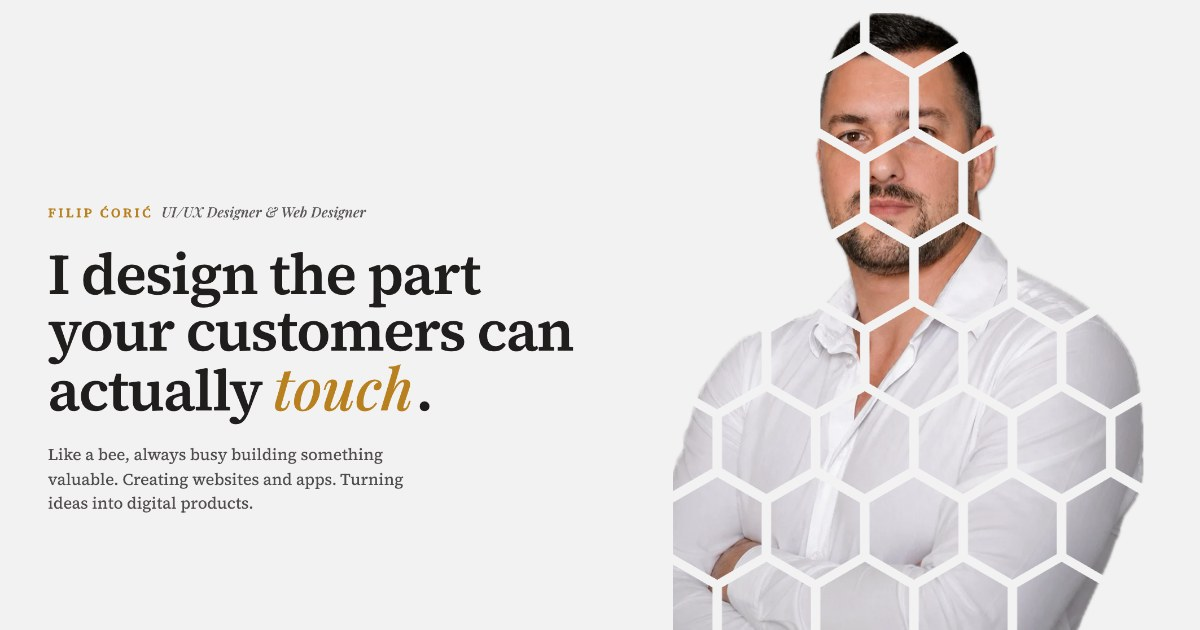
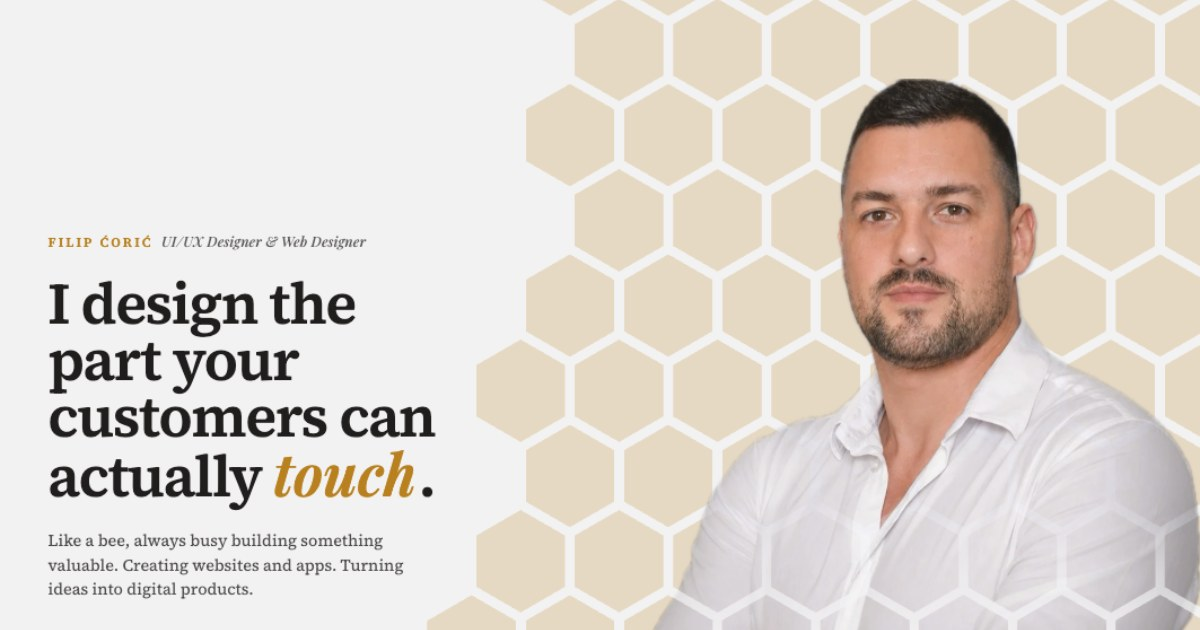
Add files via upload

diff --git a/index.html b/index.html
@@ -836,19 +836,16 @@
         <p style="margin: clamp(14px, 1.6vw, 24px) 0 clamp(22px, 2.6vw, 40px); font-family: var(--font-heading); font-weight: 600; font-size: clamp(1.5rem, 3.4vw, 3.2rem); line-height: 1.02; letter-spacing: -0.028em; color: var(--hero-ink, var(--color-text)); text-shadow: var(--hero-glow, 0 1px 0 rgba(243,242,242,0.85), 0 0 6px rgba(243,242,242,0.7)); text-wrap: pretty;">Your idea, live on the web in <span style="font-family: 'Playfair Display', var(--font-heading); font-style: italic; font-weight: 500; color: var(--hero-touch, #b8801f);">days</span>.</p>
         <div style="display: grid; grid-template-columns: repeat(auto-fit, minmax(min(100%, 170px), 1fr)); gap: clamp(20px, 2.6vw, 44px); align-items: start;">
           <div style="display: flex; flex-direction: column; align-items: flex-start;">
-            <span aria-hidden="true" style="display: block; width: clamp(11px, 0.95vw, 15px); aspect-ratio: 0.866; clip-path: polygon(50% 0%, 100% 25%, 100% 75%, 50% 100%, 0% 75%, 0% 25%); background: var(--hero-touch, #b8801f); margin: 0 0 clamp(8px, 0.9vw, 13px);"></span>
             <div style="font-family: var(--font-heading); font-weight: 600; font-size: clamp(1.9rem, 3.4vw, 3.4rem); line-height: 0.9; letter-spacing: -0.03em; color: var(--hero-touch, #b8801f); text-shadow: var(--hero-glow-sm, none);">24 - 48</div>
             <div style="margin-top: clamp(7px, 0.8vw, 12px); font-family: var(--font-heading); font-weight: 600; font-size: clamp(0.6rem, 0.82vw, 0.82rem); letter-spacing: 0.2em; text-transform: uppercase; color: var(--hero-ink, #5f3a06); text-shadow: var(--hero-glow-sm, none);">hours</div>
             <p style="margin: clamp(6px, 0.7vw, 10px) 0 0; max-width: 22ch; font-size: clamp(0.84rem, 1.02vw, 1.04rem); line-height: 1.45; color: var(--hero-ink, var(--color-text)); text-shadow: var(--hero-glow-sm, none); text-wrap: pretty;">A straightforward website designed, built and live - hosting and domain included.</p>
           </div>
           <div style="display: flex; flex-direction: column; align-items: flex-start;">
-            <span aria-hidden="true" style="display: block; width: clamp(11px, 0.95vw, 15px); aspect-ratio: 0.866; clip-path: polygon(50% 0%, 100% 25%, 100% 75%, 50% 100%, 0% 75%, 0% 25%); background: var(--hero-touch, #b8801f); margin: 0 0 clamp(8px, 0.9vw, 13px);"></span>
             <div style="font-family: var(--font-heading); font-weight: 600; font-size: clamp(1.9rem, 3.4vw, 3.4rem); line-height: 0.9; letter-spacing: -0.03em; color: var(--hero-touch, #b8801f); text-shadow: var(--hero-glow-sm, none);">1-2</div>
             <div style="margin-top: clamp(7px, 0.8vw, 12px); font-family: var(--font-heading); font-weight: 600; font-size: clamp(0.6rem, 0.82vw, 0.82rem); letter-spacing: 0.2em; text-transform: uppercase; color: var(--hero-ink, #5f3a06); text-shadow: var(--hero-glow-sm, none);">months</div>
             <p style="margin: clamp(6px, 0.7vw, 10px) 0 0; max-width: 22ch; font-size: clamp(0.84rem, 1.02vw, 1.04rem); line-height: 1.45; color: var(--hero-ink, var(--color-text)); text-shadow: var(--hero-glow-sm, none); text-wrap: pretty;">An app designed end to end, then built out with the developer I work with.</p>
           </div>
           <div style="display: flex; flex-direction: column; align-items: flex-start;">
-            <span aria-hidden="true" style="display: block; width: clamp(11px, 0.95vw, 15px); aspect-ratio: 0.866; clip-path: polygon(50% 0%, 100% 25%, 100% 75%, 50% 100%, 0% 75%, 0% 25%); background: var(--hero-touch, #b8801f); margin: 0 0 clamp(8px, 0.9vw, 13px);"></span>
             <div style="font-family: var(--font-heading); font-weight: 600; font-size: clamp(1.9rem, 3.4vw, 3.4rem); line-height: 0.9; letter-spacing: -0.03em; color: var(--hero-touch, #b8801f); text-shadow: var(--hero-glow-sm, none);">100%</div>
             <div style="margin-top: clamp(7px, 0.8vw, 12px); font-family: var(--font-heading); font-weight: 600; font-size: clamp(0.6rem, 0.82vw, 0.82rem); letter-spacing: 0.2em; text-transform: uppercase; color: var(--hero-ink, #5f3a06); text-shadow: var(--hero-glow-sm, none);">remote</div>
             <p style="margin: clamp(6px, 0.7vw, 10px) 0 0; max-width: 22ch; font-size: clamp(0.84rem, 1.02vw, 1.04rem); line-height: 1.45; color: var(--hero-ink, var(--color-text)); text-shadow: var(--hero-glow-sm, none); text-wrap: pretty;">Freelance, working with clients anywhere. You stay in the loop by call.</p>
@@ -1453,30 +1450,32 @@ class Component extends DCLogic {
           const boxW = el.getBoundingClientRect().width || (panel.width - L);
           const RATIO = 1157 / 882, EYE_Y = 0.185, EYE_X = 0.51;
           const P = panel.height, BW = panel.width - L;
-          const maxH = Math.min(P - off * 0.4, boxW * RATIO);
+          const M = Math.max(6, Math.min(pitchX * 0.14, 18));
+          const maxH = Math.min(P - 2 * M, (BW - M) * RATIO);
           let best = null;
-          for (let shrink = 0; shrink <= Math.min(pitchY * 1.1, maxH * 0.25); shrink += 1) {
+          for (let shrink = 0; shrink <= Math.min(pitchY * 0.45, maxH * 0.1); shrink += 1) {
             const ih = maxH - shrink, iw = ih / RATIO;
-            const rowNear = (P - off - 0.815 * ih - py) / pitchY;
+            const gT = (P - ih) / 2;
+            const rowNear = (P - off - gT - 0.815 * ih - py) / pitchY;
             for (const r of [Math.round(rowNear), Math.floor(rowNear), Math.ceil(rowNear)]) {
               const cellY = py + r * pitchY;
-              const bOff = P - off - cellY - 0.815 * ih - pitchY * 0.5;
-              if (bOff < 0 || bOff > P - off - ih + 0.5) continue;
+              const bOff = P - off - cellY - 0.815 * ih;
+              if (bOff < -0.5 || bOff > P - off - ih + 0.5) continue;
               const baseX = px - L + ((((r % 2) + 2) % 2 === 1) ? pitchX / 2 : 0);
-              const wantR = (k) => BW - (baseX + k * pitchX) - (1 - EYE_X) * iw + pitchX * 0.5;
+              const wantR = (k) => BW - (baseX + k * pitchX) - (1 - EYE_X) * iw;
               let rOff = null;
               for (let k = -40; k <= 40; k++) {
                 const cand = wantR(k);
                 if (cand < -0.5 || cand > BW - iw + 0.5) continue;
-                if (rOff === null || Math.abs(cand - off) < Math.abs(rOff - off)) rOff = cand;
+                if (rOff === null || Math.abs(cand - gT) < Math.abs(rOff - gT)) rOff = cand;
               }
               if (rOff === null) continue;
-              best = { ih: ih, bOff: bOff, rOff: Math.max(0, rOff) };
+              best = { ih: ih, bOff: Math.max(0, bOff), rOff: Math.max(0, rOff) };
               break;
             }
             if (best) break;
           }
-          if (!best) { const g0 = (P - maxH) / 2; best = { ih: maxH, bOff: Math.max(0, g0 - off), rOff: off }; }
+          if (!best) { const g0 = (P - maxH) / 2; best = { ih: maxH, bOff: Math.max(0, g0 - off), rOff: g0 }; }
           const iw2 = best.ih / RATIO;
           const imgTop = (P - off) - best.bOff - best.ih;
           const solidTo = imgTop + best.ih * 0.54, fadeTo = imgTop + best.ih * 0.76;
